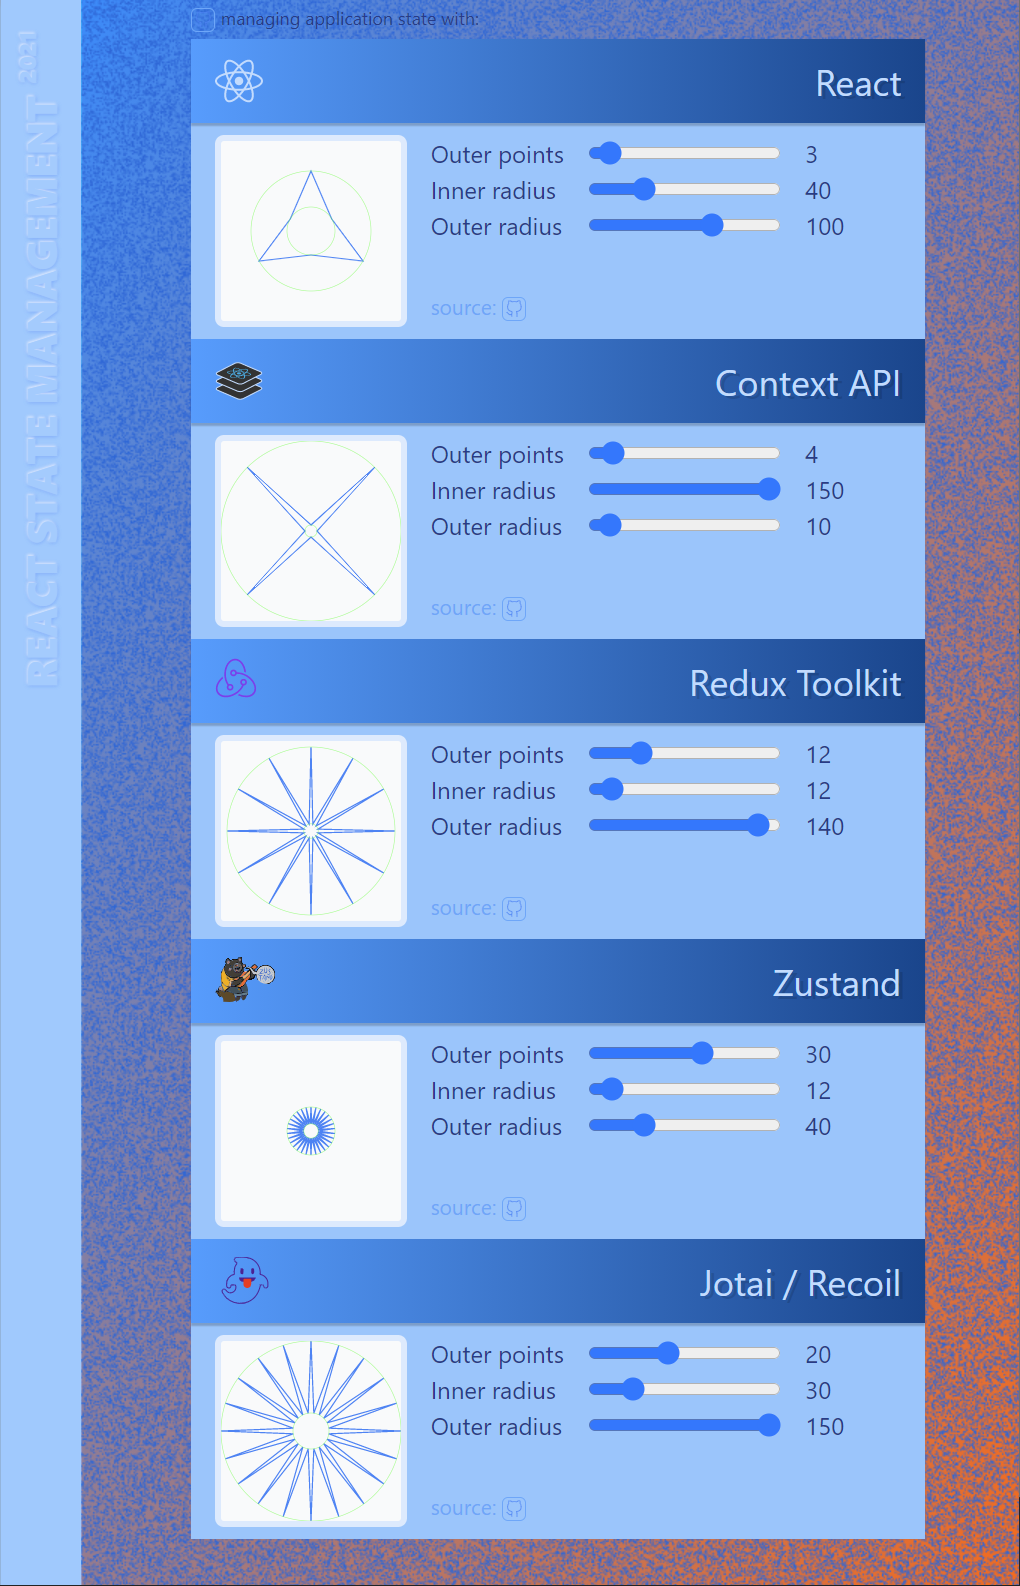
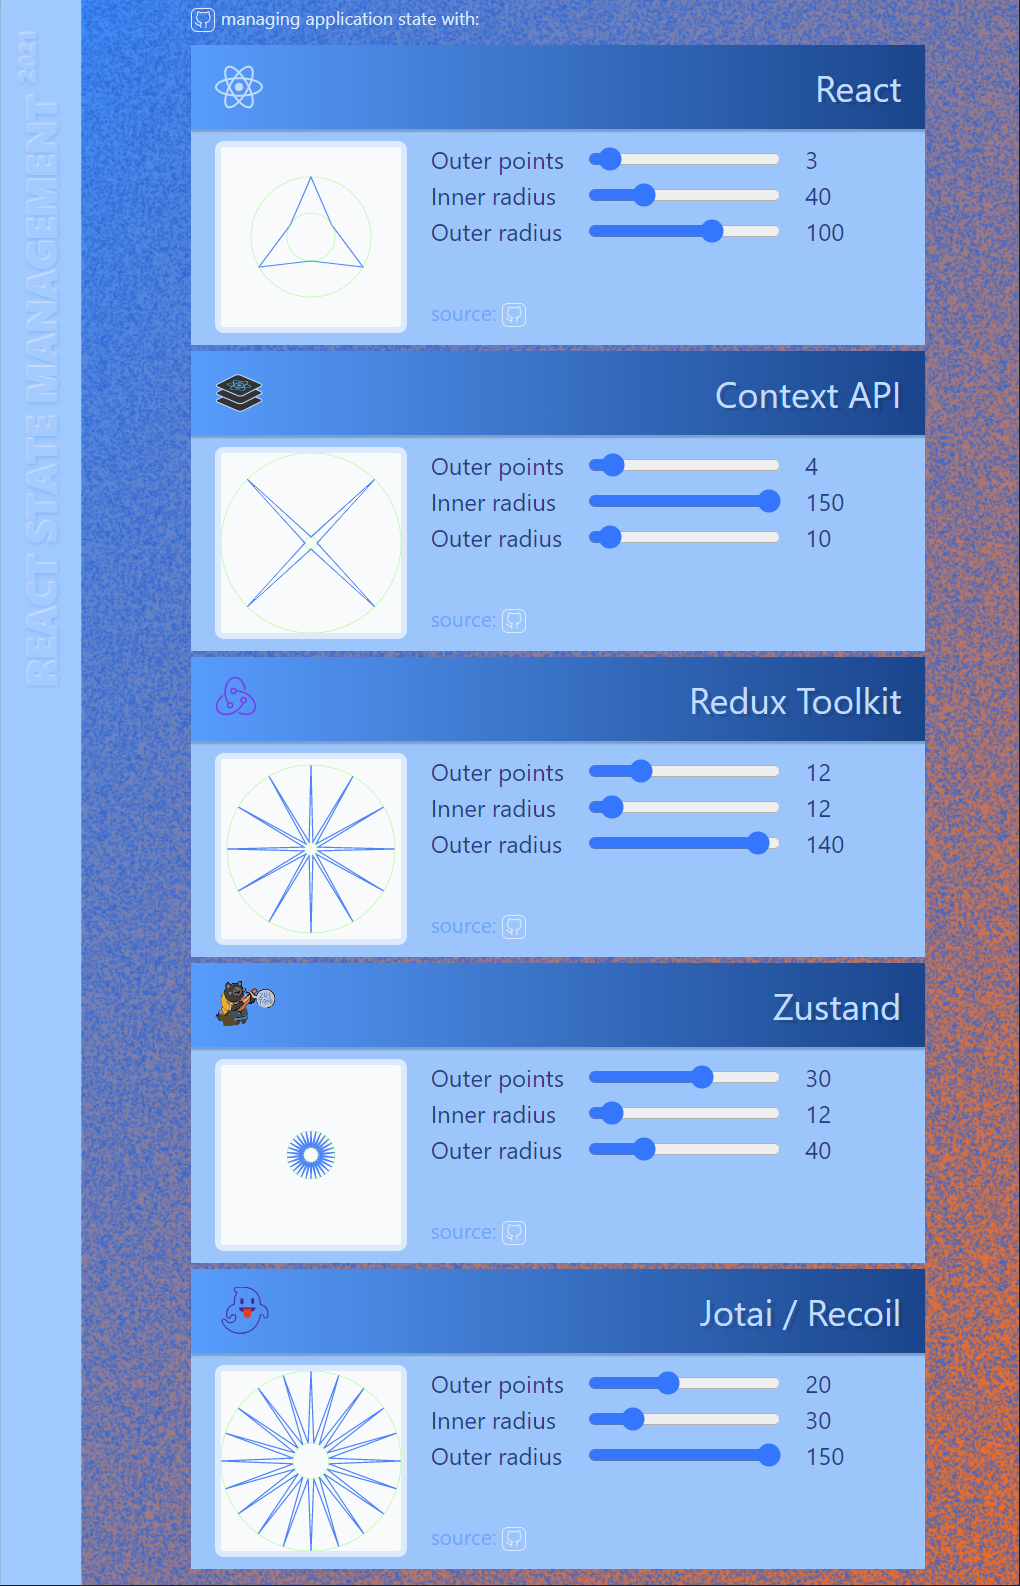
WIP. app bkg. fix vertical padding; clean up

Changed region(s): [[0.1824, 0.0, 0.9118, 0.9887], [0.3951, 0.0, 0.4559, 0.0309]]

diff --git a/src/App.tsx b/src/App.tsx
@@ -18,7 +18,7 @@ function Section({ logo, title, children }: { logo: ReactNode, title: string; ch
     }, Math.round((Math.random() + 2) * 1000));
 
     return (
-        <section className="bg-blue-300">
+        <section className="bg-blue-300 text-blue-200">
             <header
                 className="px-4 py-3 text-2xl bg-blue-500 flex justify-between"
                 style={{
@@ -73,7 +73,7 @@ function App() {
         <>
             <Background />
             <div className="relative flex sm:pl-16 pl-0">
-                <div className="max-w-lg mx-auto bg-transparent flex-col text-blue-200">
+                <div className="max-w-lg mx-auto bg-transparent space-y-1">
                     <XtraAppHeader />
                     <Section title="React" logo={<LogoReact />}>
                         <TestSectionReact />
